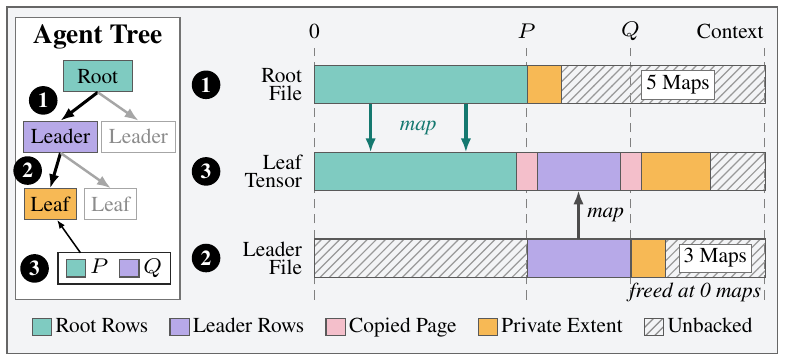
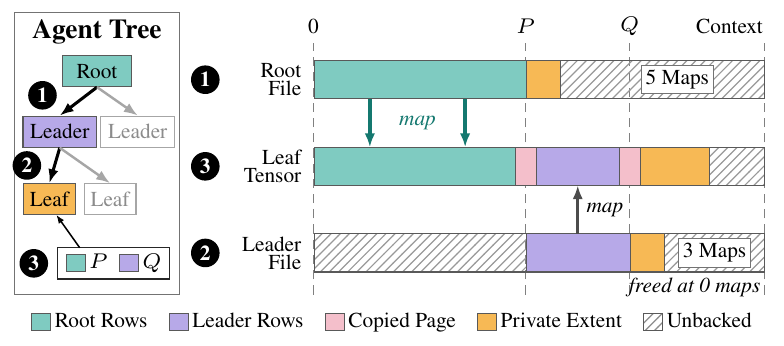
Figures: the extent layout and the extent chain without the gray panel

diff --git a/figures/src/design_layout.tex b/figures/src/design_layout.tex
@@ -9,7 +9,8 @@
 \begin{document}
 \begin{tikzpicture}[x=1cm, y=1cm, tiny/.style={-{Latex[length=1.0mm]}, line width=0.5pt},
   zoomed/.style={draw=black!85, line width=0.8pt}]
-\draw[layer] (0,0) rectangle (8.9,3.98);
+% no panel behind the bars; the bounding box keeps the width of a column
+\useasboundingbox (0,0.1) rectangle (8.9,3.93);
 
 % row axis: a guide from each label to the file
 \foreach \x in {1.7,5.48,8.7} { \fitdash{\x}{3.63}{\x}{3.45} }
@@ -25,7 +26,7 @@
 
 % the private extent, enlarged: the private part of the tensor opens into the
 % bar below (drawn first, behind the bars and the labels)
-\fill[white] (5.66,2.19) -- (8.7,2.19) -- (8.7,1.54) -- (1.7,1.54) -- cycle;
+\fill[panel] (5.66,2.19) -- (8.7,2.19) -- (8.7,1.54) -- (1.7,1.54) -- cycle;
 \fitdash{5.66}{2.19}{1.7}{1.54}
 \fitdash{8.7}{2.19}{8.7}{1.54}
 

diff --git a/figures/src/design_chain.tex b/figures/src/design_chain.tex
@@ -6,7 +6,8 @@
 \input{llmshare_style}
 \begin{document}
 \begin{tikzpicture}[x=1cm, y=1cm, tiny/.style={-{Latex[length=1.0mm]}, line width=0.5pt}]
-\draw[layer] (0,0) rectangle (8.9,4.0);
+% no panel behind the figure; the bounding box keeps the width of a column
+\useasboundingbox (0,0.1) rectangle (8.9,3.95);
 
 % ---------------- the agent tree ----------------
 \draw[sub, fill=white] (0.1,0.62) rectangle (2.0,3.88);
